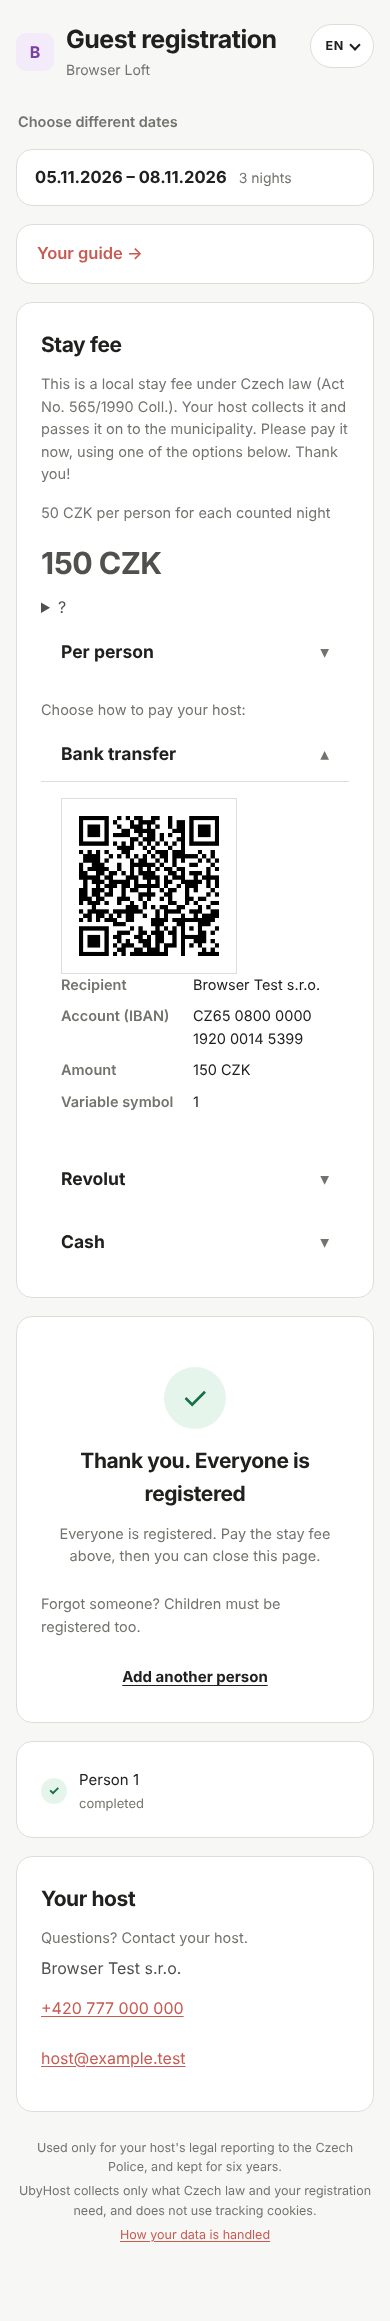
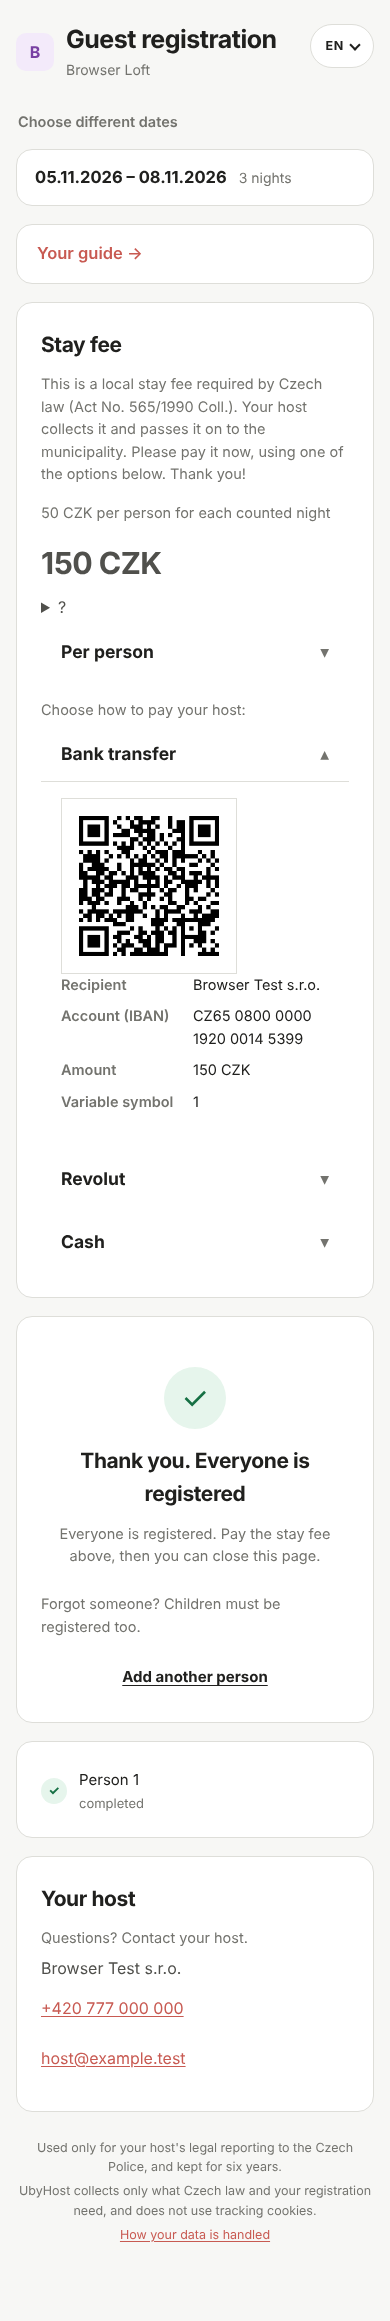
0960: intro says the stay fee is required by law (owner decision)
Claude-Session: https://claude.ai/code/session_014N5J8MeH3Hk3RVuTWKDVVn

Changed region(s): [[0.1231, 0.1551, 0.8923, 0.2171]]

diff --git a/App/app/i18n.py b/App/app/i18n.py
@@ -329,7 +329,7 @@ STRINGS: Dict[str, Dict[str, str]] = {
         "res_street": "Street and number",
         "res_city": "City",
         "fee_title": "Stay fee",
-        "fee_intro": "This is a local stay fee under Czech law (Act No. 565/1990 Coll.). Your host collects it and passes it on to the municipality. Please pay it now, using one of the options below. Thank you!",
+        "fee_intro": "This is a local stay fee required by Czech law (Act No. 565/1990 Coll.). Your host collects it and passes it on to the municipality. Please pay it now, using one of the options below. Thank you!",
         "fee_rate_line": "%(rate)s CZK per person for each counted night",
         "fee_amount": "%(amount)s CZK",
         "fee_per_person": "Per person",
@@ -1049,7 +1049,7 @@ STRINGS: Dict[str, Dict[str, str]] = {
         "res_street": "Ulice a číslo",
         "res_city": "Město",
         "fee_title": "Poplatek za pobyt",
-        "fee_intro": "Toto je místní poplatek z pobytu podle zákona č. 565/1990 Sb. Váš ubytovatel ho vybírá a předává obci. Prosíme, zaplaťte ho hned jedním z níže uvedených způsobů. Děkujeme!",
+        "fee_intro": "Toto je místní poplatek z pobytu, který ukládá zákon č. 565/1990 Sb. Váš ubytovatel ho vybírá a předává obci. Prosíme, zaplaťte ho hned jedním z níže uvedených způsobů. Děkujeme!",
         "fee_rate_line": "%(rate)s Kč na osobu za každou započitatelnou noc",
         "fee_amount": "%(amount)s Kč",
         "fee_per_person": "Na osobu",
@@ -1726,7 +1726,7 @@ STRINGS: Dict[str, Dict[str, str]] = {
         "res_street": "Straße und Hausnummer",
         "res_city": "Ort",
         "fee_title": "Aufenthaltsabgabe",
-        "fee_intro": "Dies ist eine örtliche Aufenthaltsabgabe nach dem Gesetz Nr. 565/1990 Slg. Ihr Gastgeber zieht sie ein und leitet sie an die Gemeinde weiter. Bitte zahlen Sie sie jetzt über eine der unten stehenden Möglichkeiten. Vielen Dank!",
+        "fee_intro": "Dies ist eine gesetzlich vorgeschriebene örtliche Aufenthaltsabgabe (Gesetz Nr. 565/1990 Slg.). Ihr Gastgeber zieht sie ein und leitet sie an die Gemeinde weiter. Bitte zahlen Sie sie jetzt über eine der unten stehenden Möglichkeiten. Vielen Dank!",
         "fee_rate_line": "%(rate)s CZK pro Person und jede angerechnete Nacht",
         "fee_amount": "%(amount)s CZK",
         "fee_per_person": "Pro Person",
@@ -2221,7 +2221,7 @@ STRINGS: Dict[str, Dict[str, str]] = {
         "res_street": "Calle y número",
         "res_city": "Ciudad",
         "fee_title": "Tasa de estancia",
-        "fee_intro": "Esta es una tasa local de estancia según la Ley n.º 565/1990 Coll. Su anfitrión la cobra y la transfiere al municipio. Por favor, páguela ahora con una de las opciones de abajo. ¡Gracias!",
+        "fee_intro": "Esta es una tasa local de estancia exigida por la ley (Ley n.º 565/1990 Coll.). Su anfitrión la cobra y la transfiere al municipio. Por favor, páguela ahora con una de las opciones de abajo. ¡Gracias!",
         "fee_rate_line": "%(rate)s CZK por persona y cada noche computable",
         "fee_amount": "%(amount)s CZK",
         "fee_per_person": "Por persona",
@@ -2716,7 +2716,7 @@ STRINGS: Dict[str, Dict[str, str]] = {
         "res_street": "Rue et numéro",
         "res_city": "Ville",
         "fee_title": "Taxe de séjour",
-        "fee_intro": "Il s'agit d'une taxe de séjour locale au titre de la loi n° 565/1990 Coll. Votre hôte la perçoit et la reverse à la commune. Merci de la régler dès maintenant par l'une des options ci-dessous. Merci beaucoup !",
+        "fee_intro": "Il s'agit d'une taxe de séjour locale exigée par la loi (loi n° 565/1990 Coll.). Votre hôte la perçoit et la reverse à la commune. Merci de la régler dès maintenant par l'une des options ci-dessous. Merci beaucoup !",
         "fee_rate_line": "%(rate)s CZK par personne et par nuit comptée",
         "fee_amount": "%(amount)s CZK",
         "fee_per_person": "Par personne",

diff --git a/App/app/guest_uk_i18n.py b/App/app/guest_uk_i18n.py
@@ -291,7 +291,7 @@ STRINGS: Dict[str, str] = {
     "res_street": "Вулиця та номер будинку",
     "res_city": "Місто",
     "fee_title": "Збір за проживання",
-    "fee_intro": "Це місцевий збір за проживання згідно із законом № 565/1990 Зб. Ваш господар збирає його і передає громаді. Будь ласка, сплатіть його зараз одним із наведених нижче способів. Дякуємо!",
+    "fee_intro": "Це місцевий збір за проживання, який вимагається законом (№ 565/1990 Зб.). Ваш господар збирає його і передає громаді. Будь ласка, сплатіть його зараз одним із наведених нижче способів. Дякуємо!",
     "fee_rate_line": "%(rate)s CZK з особи за кожну враховану ніч",
     "fee_amount": "%(amount)s CZK",
     "fee_per_person": "На особу",

diff --git a/App/tests/test_stay_fee_guest_pay_0897.py b/App/tests/test_stay_fee_guest_pay_0897.py
@@ -542,9 +542,9 @@ def test_0960_fee_card_says_why_and_asks_to_pay_in_plain_text(host, monkeypatch)
     complete_guest_claim(guest, token, stay, party_size=1)
     assert _guest_saves(guest, token, stay).status_code == 303
     en = guest.get(f"/l/{token}/{stay}?lang=en").text
-    assert "This is a local stay fee under Czech law (Act No. 565/1990 Coll.)" in en
+    assert "This is a local stay fee required by Czech law (Act No. 565/1990 Coll.)" in en
     assert en.index("This is a local stay fee") < en.index('class="g-fee-amount"')
     assert "Why this fee applies" not in en
     cs = guest.get(f"/l/{token}/{stay}?lang=cs").text
-    assert "místní poplatek z pobytu podle zákona č. 565/1990 Sb." in cs
+    assert "místní poplatek z pobytu, který ukládá zákon č. 565/1990 Sb." in cs
     assert "Proč tento poplatek platíte" not in cs

diff --git a/docs/tasks/0960-report.md b/docs/tasks/0960-report.md
@@ -4,6 +4,6 @@ Status: review
 Files: App/app/i18n.py, App/app/guest_uk_i18n.py, App/app/templates/guest/_fee_pay.html, App/tests/test_stay_fee_guest_pay_0897.py, docs/tasks/screenshots-0960/fee-card-390.png, docs/tasks/0960-guest-fee-card-why-and-please-pay.md (Status only).
 Steps 1 to 4 done: fee_intro added in en, cs, de, es, fr, uk under the h2; fee_legal_pointer removed (5 keys in i18n.py, 1 in guest_uk_i18n.py; no other use); new test test_0960_fee_card_says_why_and_asks_to_pay_in_plain_text.
 Tests: pytest test_stay_fee_guest_pay_0897.py test_static_versions.py: 48 passed. test_guest_browser_e2e.py -k fee: 8 passed, 0 skipped.
-Deviations: en intro says "under Czech law" instead of "required by Czech law", to match legal_notice_fee_body ("may charge under its by-law") and the pending legal sign-off. Commit attribution uses Haiku 5.5, not the brief's Sonnet 5.5.
-Questions: owner to confirm the legal wording and the cs/de/es/fr/uk translations.
+Deviations: commit attribution uses Haiku 5.5, not the brief's Sonnet 5.5. Owner decision: intro says the fee is required by law (first sentence changed in all six languages).
+Questions: owner to confirm the cs/de/es/fr/uk translations.
 Owner steps left: review copy, then merge via scripts/merge-pr-on-green.sh.
